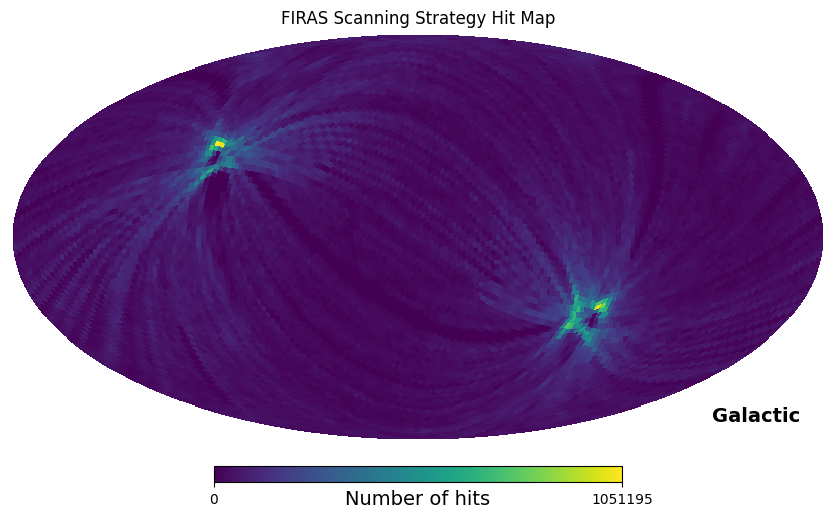
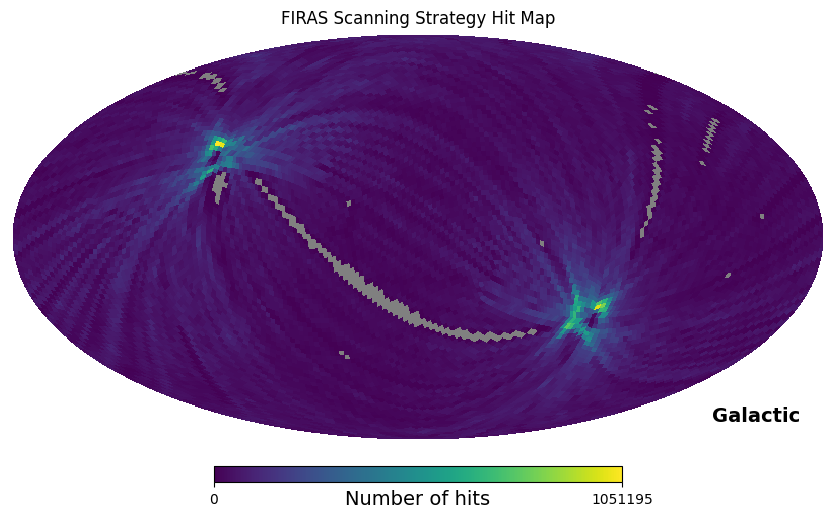
add frankenstein ifg

diff --git a/FIRAS/ifg_mapmaking/main.tex b/FIRAS/ifg_mapmaking/main.tex
@@ -250,8 +250,6 @@ Figure \ref{fig:ifg-pointing} shows an example of the pointing solution for one 
 
 We will describe how we generate the simulations for the modern method in Section \ref{sec:modern} in detail, followed by the simulation method for the legacy one in Section \ref{sec:firas-like}, which follows the same principles, with the addition of the on-board coadding step.
 
-\todo{picture explaining this}
-
 \subsection{Modern Experiment}
 \label{sec:modern}
 
@@ -261,11 +259,16 @@ For a modern experiment, we would have access to each of the on-board interferog
 
 We then end up with a 3-dimensional pointing matrix $\matP$, with dimensions $N_{\rm IFGs} \times N_{\rm pix} \times N_{\rm separations}$, where $N_{\rm IFGs}$ is the total number of sky interferograms taken over the four-year mission, totaling to around 12,614,546 interferograms, dependent on the exact observing efficiency; $N_{\rm pix}$ is the number of HEALPix pixels at NSIDE=128, which amounts to 196,608; and $N_{\rm separations}$ is the length of each interferogram, which we will assume to be a round number of 256 samples. Each row of this matrix, $\matP_{i,:,:}$, contains the pointing solution for one interferogram, with each column $\matP_{i,:,j}$ being a one-hot vector indicating which pixel the instrument was pointing to at separation $j$ of interferogram $i$. This matrix is saved and later used by the mapmaking algorithms. For real data, and for the FOSSIL experiment, these pointings will be given as part of the housekeeping data package.
 
-However, our simulation does not end there, as we want to have one single interferogram for each of the $N_{\rm IFGs}$, not 256 for each. As such, we take each of the generated interferograms for each pixel and build a new interferogram with the parts of each of the pixels that is hit, i.e., for each of the $N_{\rm IFGs}$ interferograms, we generate $N_{\rm separations}$ interferograms (where we might generate the same exact interferogram many times, e.g. if the beam passes through four different pixels through one scan and spends the same amount of time in each of the four pixels, we will generate only four different interferograms, each repeated 64 times) and keep only the samples where the beam would have been looking at that pixel.
+However, our simulation does not end there, as we want to have one single interferogram for each of the $N_{\rm IFGs}$, not 256 for each. As such, we take each of the generated interferograms for each pixel and build a new interferogram with the parts of each of the pixels that is hit, i.e., for each of the $N_{\rm IFGs}$ interferograms, we generate $N_{\rm separations}$ interferograms (where we might generate the same exact interferogram many times, e.g. if the beam passes through four different pixels through one scan and spends the same amount of time in each of the four pixels, we will generate only four different interferograms, each repeated 64 times) and keep only the samples where the beam would have been looking at that pixel. An example of this is shown in Figure \ref{fig:frankenstein}, where the red, vertical lines show where one pixel ends and another begins, and the final interferogram is built from the different parts of the interferograms of each pixel that is hit by the beam during one scan.
 
-Once this is done, we add white noise based on a rough estimate of a noise level of 1 Jy/sr for the whole mission, which results in a noise level of around 4 kJy/sr \todo{confirm} for each interferogram.
+\begin{figure}[h]
+    \centering
+    \includegraphics[width=\linewidth]{Figures/frankenstein_ifg.png} 
+    \caption{Example of a final interferogram, built from the different parts of the interferograms of each pixel that is hit by the beam during one scan. The red vertical lines show where one pixel ends and another begins.}
+    \label{fig:frankenstein}
+\end{figure}
 
-\todo{add picture illustrating the frankenstein IFG}
+Once this is done, we add white noise based on a rough estimate of a noise level of 1 Jy/sr for the whole mission, which results in a noise level of around 4 kJy/sr for each interferogram.
 
 \subsection{Legacy Experiment}
 \label{sec:firas-like}
@@ -335,13 +338,6 @@ as defined e.g. by \cite{shewchuk:1994}. After experimenting with different opti
 \section{Results}
 \label{sec:results}
 
-
-\todo{No noise weighting leads to a noise floor when taking the absolute value of the FFT.}
-
-\subsection{Binned mapmaker}
-
-\todo{show how many pixels are hit using this mapmaking method vs how many are simulated}
-
 \subsection{Greater sky coverage}
 
 A first obvious advantage of using the full pointing matrix $\matP$ is that, by taking into account all of the parts of the sky hit by the beam during one interferogram, as opposed to using simply the middle pixel, is that we get a greater sky coverage. This is particularly obvious when looking at the FIRAS hit map, since it did not have complete sky coverage, when using the binned mapmaker methodology, as shown in Figure \ref{fig:hit-map-firas}, which misses many more pixels than the ones that were simulated, as shown in the bottom panel of Figure \ref{fig:scanning-strategy}.
@@ -354,8 +350,6 @@ A first obvious advantage of using the full pointing matrix $\matP$ is that, by 
 \end{figure}
 
 Similar follows for the FOSSIL-like simulation, where there are no missing pixels, but the number of hits per pixel is significantly increased when using the full pointing matrix $\matP$ and this allows us to properly weight the data when mapmaking.
-
-\todo{show hit map before and after}
 
 \subsection{Comparison}
 
